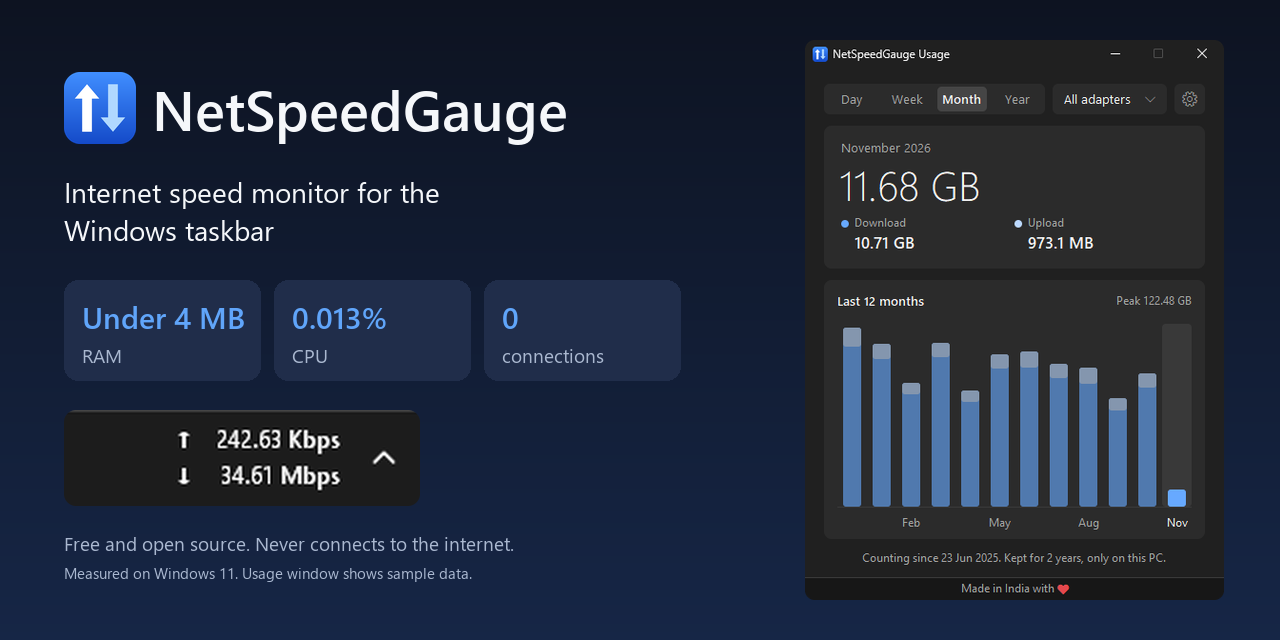
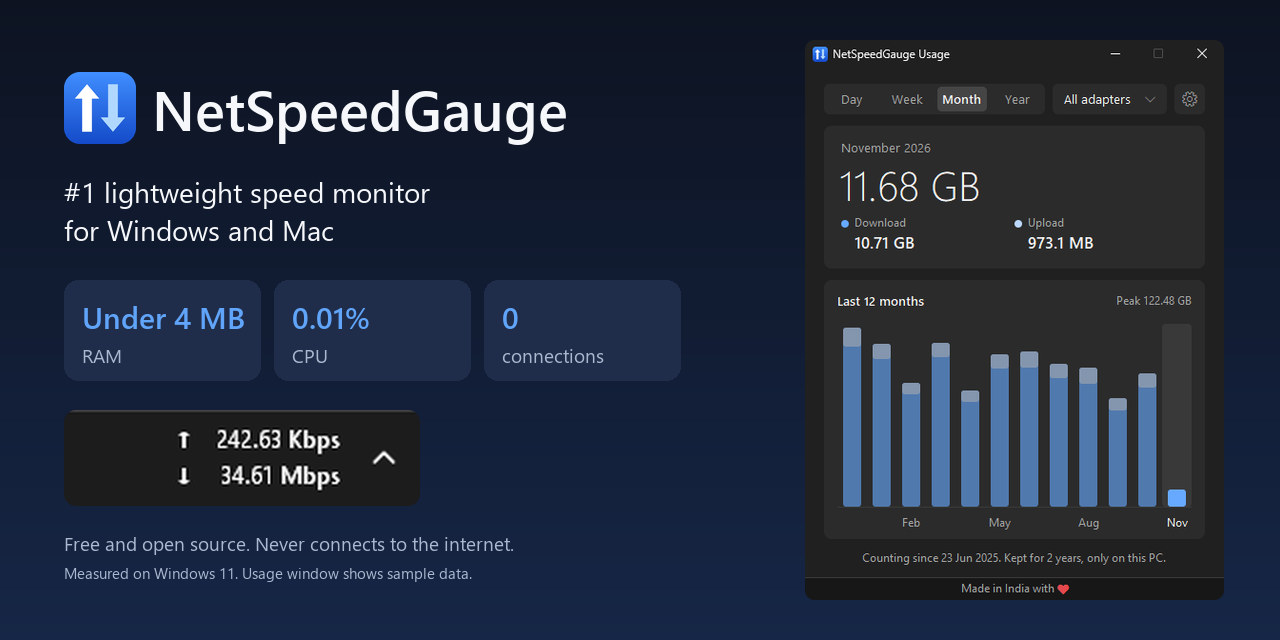
chore(release): prepare 1.1.0 with the Mac app

Changed region(s): [[0.0312, 0.2812, 0.3438, 0.375], [0.25, 0.4688, 0.3125, 0.5312]]

diff --git a/windows/tools/make_readme_images.py b/windows/tools/make_readme_images.py
@@ -25,7 +25,7 @@ MUTED_COLOR = (170, 184, 208)
 ACCENT_COLOR = (96, 165, 250)
 SCALE = 4
 LEFT_MARGIN = 64
-STATS = [("Under 4 MB", "RAM"), ("0.013%", "CPU"), ("0", "connections")]
+STATS = [("Under 4 MB", "RAM"), ("0.01%", "CPU"), ("0", "connections")]
 
 
 def rounded(image, radius):
@@ -94,8 +94,8 @@ def draw_banner():
     banner.paste(icon, (LEFT_MARGIN, 72), icon)
     draw.text((LEFT_MARGIN + 88, 70), "NetSpeedGauge", font=ImageFont.truetype(FONT_STRONG, 56), fill=TEXT_COLOR)
     tagline = ImageFont.truetype(FONT_REGULAR, 28)
-    draw.text((LEFT_MARGIN, 172), "Internet speed monitor for the", font=tagline, fill=TEXT_COLOR)
-    draw.text((LEFT_MARGIN, 210), "Windows taskbar", font=tagline, fill=TEXT_COLOR)
+    draw.text((LEFT_MARGIN, 172), "#1 lightweight speed monitor", font=tagline, fill=TEXT_COLOR)
+    draw.text((LEFT_MARGIN, 210), "for Windows and Mac", font=tagline, fill=TEXT_COLOR)
 
     value_font = ImageFont.truetype(FONT_STRONG, 30)
     label_font = ImageFont.truetype(FONT_REGULAR, 19)

diff --git a/README.md b/README.md
@@ -5,24 +5,25 @@
 </p>
 
 <p align="center">
-  A tiny internet speed monitor for the Windows taskbar. See your upload and download speed, and how much data you used today, this week, this month and this year.
+  #1 lightweight speed monitor for Windows and Mac. See your upload and download speed, and how much data you used today, this week, this month and this year.
 </p>
 
 <p align="center">
-  <a href="https://github.com/developedByAshu/NetSpeedGauge-Internet-Speed-Monitor/releases/latest"><img src="https://img.shields.io/badge/Download_for_Windows-2563EB?style=for-the-badge" alt="Download for Windows"></a>
+  <a href="https://github.com/developedByAshu/NetSpeedGauge-Internet-Speed-Monitor/releases/latest"><img src="https://img.shields.io/badge/Download-2563EB?style=for-the-badge" alt="Download"></a>
 </p>
 
 <p align="center">
   <img src="https://img.shields.io/github/v/release/developedByAshu/NetSpeedGauge-Internet-Speed-Monitor?label=version" alt="Latest version">
   <img src="https://img.shields.io/badge/Windows-10_%7C_11-2563EB" alt="Windows 10 and 11">
+  <img src="https://img.shields.io/badge/Mac-Apple_silicon-2563EB" alt="Mac with Apple silicon">
   <img src="https://img.shields.io/badge/licence-GPL--3.0-16A34A" alt="GPL-3.0 licence">
 </p>
 
 <table align="center">
   <tr>
-    <td align="center" width="170"><h3>Under 4 MB</h3>RAM on the taskbar</td>
-    <td align="center" width="170"><h3>0.013%</h3>CPU</td>
-    <td align="center" width="170"><h3>408 KB</h3>one file, no install</td>
+    <td align="center" width="170"><h3>Under 4 MB</h3>RAM on Windows</td>
+    <td align="center" width="170"><h3>14 MB</h3>RAM on Mac</td>
+    <td align="center" width="170"><h3>408 KB</h3>Windows program, no install</td>
     <td align="center" width="170"><h3>0</h3>internet connections</td>
   </tr>
 </table>
@@ -42,7 +43,7 @@ So this one counts every adapter, keeps 2 years of history, and stays out of the
   </tr>
   <tr>
     <td width="50%" align="center"><img src="docs/images/tile-usage.png" alt="Internet data usage by day, week, month and year on Windows"><br><sub>Usage by day, week, month and year (sample data)</sub></td>
-    <td width="50%" align="center"><img src="docs/images/tile-taskbar.png" alt="Upload and download speed on the Windows taskbar, and the hover card with today's and this month's data usage"><br><sub>On the taskbar. Hover for today and this month</sub></td>
+    <td width="50%" align="center"><img src="docs/images/tile-taskbar.png" alt="Upload and download speed on the Windows taskbar, and the hover card with today's and this month's data usage"><br><sub>On the taskbar. Click for today and this month</sub></td>
   </tr>
 </table>
 
@@ -65,14 +66,14 @@ So this one counts every adapter, keeps 2 years of history, and stays out of the
         <li>Day, week, month and year charts</li>
         <li>Kept for up to 2 years</li>
         <li>Split by adapter</li>
-        <li>Keeps counting across Windows restarts</li>
-        <li>Closed the app? It catches up when you reopen it, if Windows has not restarted since</li>
+        <li>Keeps counting across restarts</li>
+        <li>Closed the app? It catches up when you reopen it, if the computer has not restarted since</li>
       </ul>
     </td>
     <td valign="top" width="33%">
       <b>Look</b>
       <ul>
-        <li>Light, dark or same as Windows</li>
+        <li>Light, dark or same as your system</li>
         <li>Icons, thickness, colours, font, size and background</li>
         <li>Colours can change with speed</li>
         <li>Your colours follow into Usage and the hover card</li>
@@ -84,6 +85,8 @@ So this one counts every adapter, keeps 2 years of history, and stays out of the
 
 ## Install
 
+### Windows
+
 1. Download `NetSpeedGauge-x64.exe` from [Releases](https://github.com/developedByAshu/NetSpeedGauge-Internet-Speed-Monitor/releases/latest). On a Windows on ARM PC, take `NetSpeedGauge-arm64.exe`.
 2. Put it in a folder you will keep, then run it.
 3. To open it at sign in, turn on **Start with Windows** in Settings.
@@ -94,36 +97,43 @@ Windows may show a SmartScreen warning because the program is not code signed ye
 
 To remove it, turn off **Start with Windows**, choose **Exit**, then delete the file and `%APPDATA%\NetSpeedGauge`.
 
+### Mac (Apple silicon only)
+
+1. Download `NetSpeedGauge-mac-arm64.zip` from [Releases](https://github.com/developedByAshu/NetSpeedGauge-Internet-Speed-Monitor/releases/latest) and unzip it.
+2. Move `NetSpeedGauge` to Applications, then open it.
+3. macOS blocks it the first time because the app is not signed by Apple. Open **System Settings**, **Privacy & Security**, choose **Open Anyway**, then open it again.
+4. To open it at login, turn on **Start at login** in Settings.
+
+To update, choose **Quit**, then replace the old app with the new one. Your settings and usage stay as they are.
+
+To remove it, turn off **Start at login**, choose **Quit**, then delete the app and `~/Library/Application Support/NetSpeedGauge`.
+
 ## Works on
 
-Tested on Windows 11. It should also work on Windows 10 and Windows on ARM, but I have not tested those. If something breaks, open an issue or message me on GitHub.
+Tested on Windows 11 and on macOS 27 with Apple silicon. It should also work on Windows 10, Windows on ARM and macOS 12 or later, but I have not tested those. There is no version for Intel Macs. If something breaks, open an issue or message me on GitHub.
 
-It shows on the main taskbar only.
+On Windows it shows on the main taskbar only.
+
+## Privacy
+
+- Nothing leaves your computer. No account, tracking, ads or server.
+- No network library in the program. It only reads your adapters' byte counts from the system.
+- Usage and settings stay in `%APPDATA%\NetSpeedGauge` on Windows and `~/Library/Application Support/NetSpeedGauge` on Mac. They are not encrypted, they are just never sent anywhere.
+- The code is all here, so you can check it yourself or ask an AI to.
+
+## CPU and RAM
 
 <table>
-  <tr>
-    <td valign="top" width="50%">
-      <h2>Privacy</h2>
-      <ul>
-        <li>Nothing leaves your PC. No account, tracking, ads or server.</li>
-        <li>No network library in the program. It only reads your adapters' byte counts from Windows.</li>
-        <li>Usage and settings stay in <code>%APPDATA%\NetSpeedGauge</code>. They are not encrypted, they are just never sent anywhere.</li>
-        <li>The code is all here, so you can check it yourself or ask an AI to.</li>
-      </ul>
-    </td>
-    <td valign="top" width="50%">
-      <h2>Size on my PC</h2>
-      <table>
-        <tr><td>RAM on the taskbar</td><td>1.7 to 2.9 MB</td></tr>
-        <tr><td>RAM with Usage open</td><td>4.3 MB</td></tr>
-        <tr><td>RAM with Settings open</td><td>6.1 MB</td></tr>
-        <tr><td>CPU</td><td>0.013% of the processor</td></tr>
-        <tr><td>Download</td><td>408 KB</td></tr>
-      </table>
-      <sub>Windows 11, 10 minutes of normal use. Yours may differ. Usage and Settings give their memory back when closed.</sub>
-    </td>
-  </tr>
+  <tr><th></th><th>Windows</th><th>Mac</th></tr>
+  <tr><td>Tested on</td><td>Ryzen 5800H, 16GB</td><td>M4, 16GB</td></tr>
+  <tr><td>CPU, average</td><td>0.17% of one core (0.01% of the processor)</td><td>0.37% of one core (0.04% of the processor)</td></tr>
+  <tr><td>CPU, highest 15 seconds</td><td>0.41% of one core</td><td>0.86% of one core</td></tr>
+  <tr><td>RAM, average</td><td>2.4 MB (working set)</td><td>14 MB (physical footprint)</td></tr>
+  <tr><td>RAM with a window open</td><td>4.2 MB with Usage, 7.2 MB with Settings</td><td>Up to 92 MB, about 32 MB after closing</td></tr>
+  <tr><td>RAM after closing the window</td><td>1.5 MB</td><td>About 32 MB</td></tr>
 </table>
+
+<sub>10 minutes each, plugged in, updating every second with Slow down when idle on, and light traffic (under 10 MB on each). The two RAM tools measure differently, so the RAM figures are not a direct comparison. Window figures are readings, not averages. Heavy traffic has not been measured. Yours may differ.</sub>
 
 ## Common questions
 
@@ -133,8 +143,13 @@ It shows on the main taskbar only.
 </details>
 
 <details>
-<summary><b>How do I check how much data I used this month on Windows?</b></summary>
-<br>Click the numbers, or right-click them and choose <b>Usage</b>, then pick <b>Month</b>.
+<summary><b>How do I see internet speed in the Mac menu bar?</b></summary>
+<br>Run NetSpeedGauge. Upload and download appear side by side in the menu bar.
+</details>
+
+<details>
+<summary><b>How do I check how much data I used this month on Windows or Mac?</b></summary>
+<br>Right-click the numbers, choose <b>Usage</b>, then pick <b>Month</b>.
 </details>
 
 <details>
@@ -154,7 +169,7 @@ It shows on the main taskbar only.
 
 ## Build it yourself
 
-You need Rust and the Visual Studio C++ build tools.
+On Windows you need Rust and the Visual Studio C++ build tools.
 
 ```
 cargo test --release -p netspeedgauge-shared -p netspeedgauge-windows
@@ -162,6 +177,12 @@ cargo build --release -p netspeedgauge-windows --bin NetSpeedGauge
 ```
 
 The program ends up in `target\release\NetSpeedGauge.exe`.
+
+On a Mac with Apple silicon you need Rust and the Xcode command line tools. This runs the tests and builds `target/mac/NetSpeedGauge.app`:
+
+```
+./mac/bundle.sh
+```
 
 ## Licence
 

diff --git a/docs/release-notes/v1.1.0.md b/docs/release-notes/v1.1.0.md
@@ -1,0 +1,9 @@
+NetSpeedGauge now runs on Mac.
+
+- New Mac app with Apple silicon: upload and download side by side in the menu bar, plus Usage and Settings like on Windows
+- New defaults on both apps: hover does nothing, click shows the Usage card. If you already use the app, your choices stay as they are
+- "Always Mega" label on the Units page
+
+**Windows:** take `NetSpeedGauge-x64.exe`, or `NetSpeedGauge-arm64.exe` on a Windows on ARM PC. To update, choose **Exit**, then replace your old file with the new one. Your settings and usage stay as they are. Windows may show a SmartScreen warning because the program is not code signed yet. Choose **More info**, then **Run anyway**.
+
+**Mac:** take `NetSpeedGauge-mac-arm64.zip`, unzip it and move the app to Applications. There is no version for Intel Macs. macOS blocks it the first time because the app is not signed by Apple. Open **System Settings**, **Privacy & Security**, choose **Open Anyway**, then open it again.
